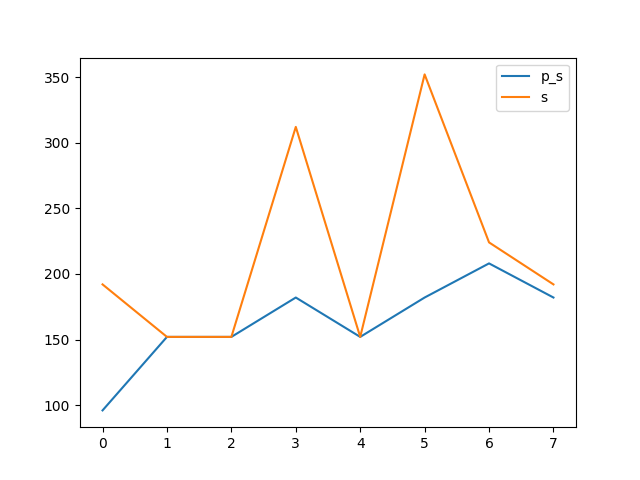
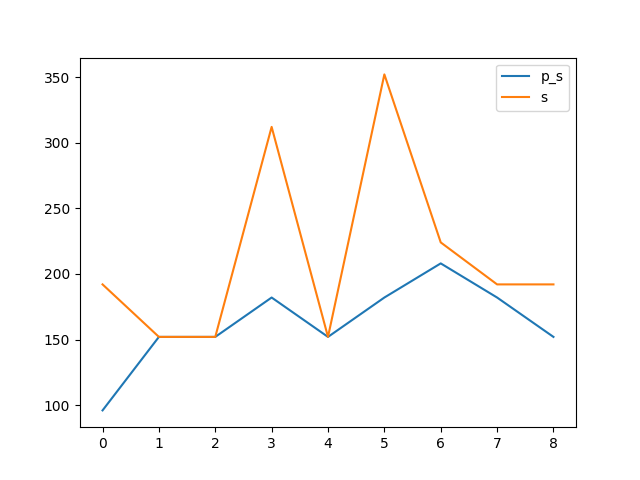
0x0008

diff --git a/benchmark.md b/benchmark.md
@@ -6,15 +6,15 @@ test
 
 test
 
-Synthesising 0x0007 pexact:182 r=4 exact:192 r=3
+Synthesising 0x0008 pexact:152 r=3 exact:192 r=3
 
 ```mermaid
 xychart-beta
     title "Comparison powertwoexact twoexact"
-    x-axis [0, 1, 2, 3, 4, 5, 6, 7]
+    x-axis [0, 1, 2, 3, 4, 5, 6, 7, 8]
     y-axis "Switching Activity" 0-->352
-    line [96, 152, 152, 182, 152, 182, 208, 182]
-    line [192, 152, 152, 312, 152, 352, 224, 192]
-    line [163.25, 163.25, 163.25, 163.25, 163.25, 163.25, 163.25, 163.25]
-    line [216.0, 216.0, 216.0, 216.0, 216.0, 216.0, 216.0, 216.0]
+    line [96, 152, 152, 182, 152, 182, 208, 182, 152]
+    line [192, 152, 152, 312, 152, 352, 224, 192, 192]
+    line [162.0, 162.0, 162.0, 162.0, 162.0, 162.0, 162.0, 162.0, 162.0]
+    line [213.33333333333334, 213.33333333333334, 213.33333333333334, 213.33333333333334, 213.33333333333334, 213.33333333333334, 213.33333333333334, 213.33333333333334, 213.33333333333334]
 ```
